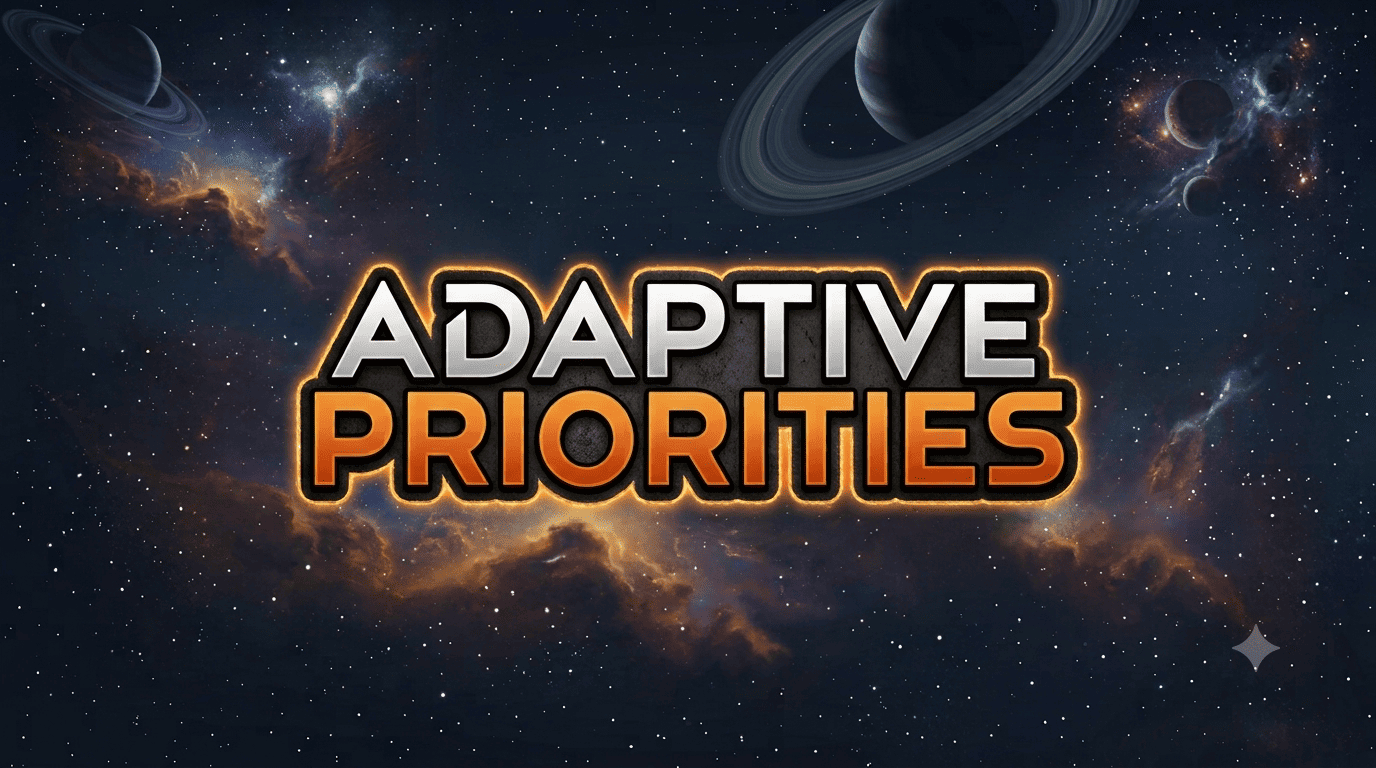
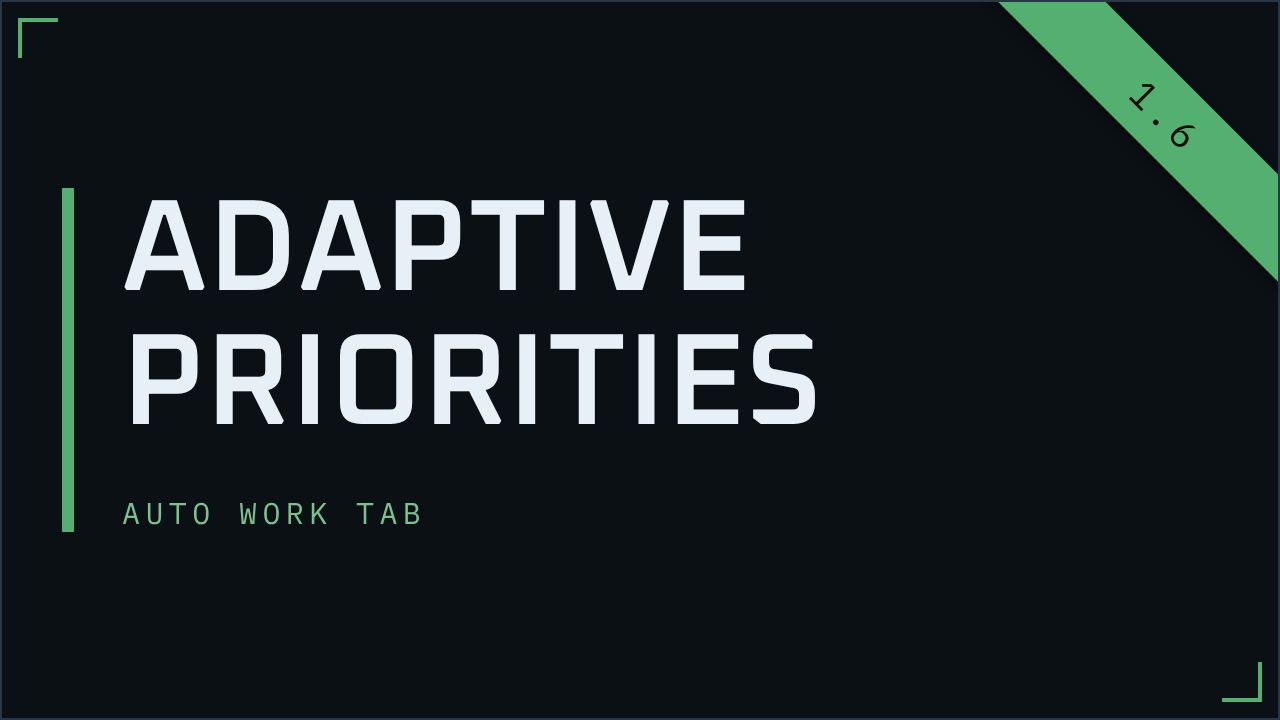
v1.5.1

diff --git a/CHANGELOG.md b/CHANGELOG.md
@@ -2,6 +2,14 @@
 
 All notable changes to this project are documented in this file.
 
+## [1.5.1] - 2026-07-20
+
+### Added
+- ModIcon.png
+
+### Changed
+- Preview.png
+
 ## [1.5.0] - 2026-07-18
 
 ### Added